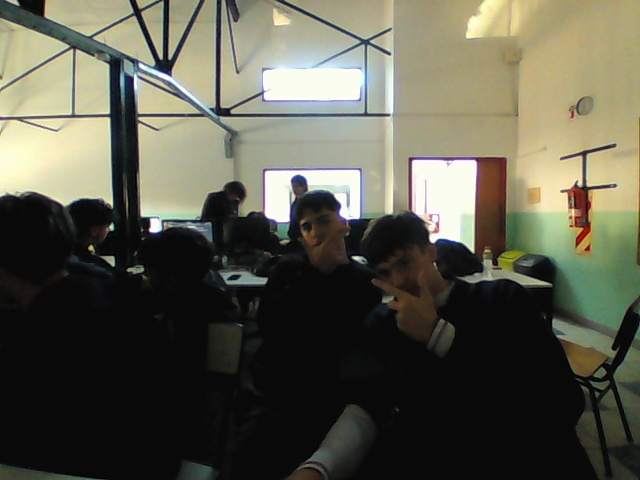
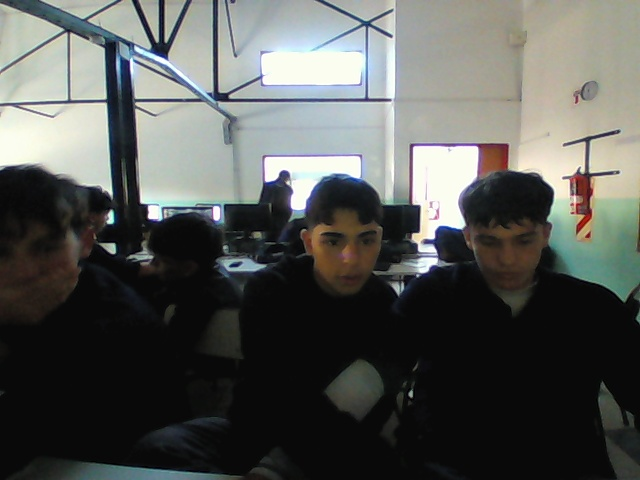
integramos el archivo sacarfotoiloto con la pruebapiloto para poder sacar fotos con la estaña de la camara abierta y que se reescriban

diff --git a/codigos/pruebapiloto.py b/codigos/pruebapiloto.py
@@ -1,4 +1,11 @@
 import cv2
+import os
+
+# Ruta personalizada (puedes cambiarla)
+ruta_guardado = "/home/ta-te-ti/Escritorio/proyecto/Proyecto-Ta-te-ti/imagenes/piloto.jpg"
+
+# Asegúrate de que la carpeta exista
+os.makedirs(os.path.dirname(ruta_guardado), exist_ok=True)
 
 # Intenta abrir la cámara (0 es el índice de la primera cámara)
 cap = cv2.VideoCapture(0)
@@ -17,6 +24,11 @@ while True:
 
     cv2.imshow('Webcam', frame)  # Muestra el frame en una ventana
 
+    if cv2.waitKey(1) & 0xFF == ord('f'):
+        cv2.imwrite(ruta_guardado, frame)
+        print(f"Foto guardada en: {ruta_guardado}")
+    
+    
     # Salir si se presiona la tecla 'q'
     if cv2.waitKey(1) & 0xFF == ord('q'):
         break
